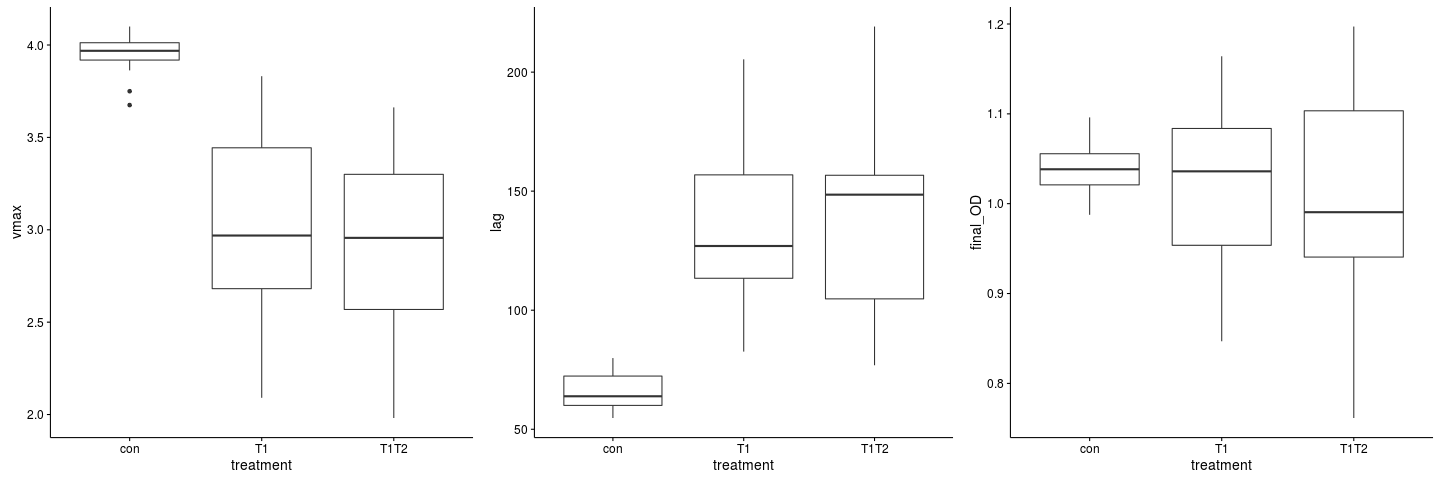
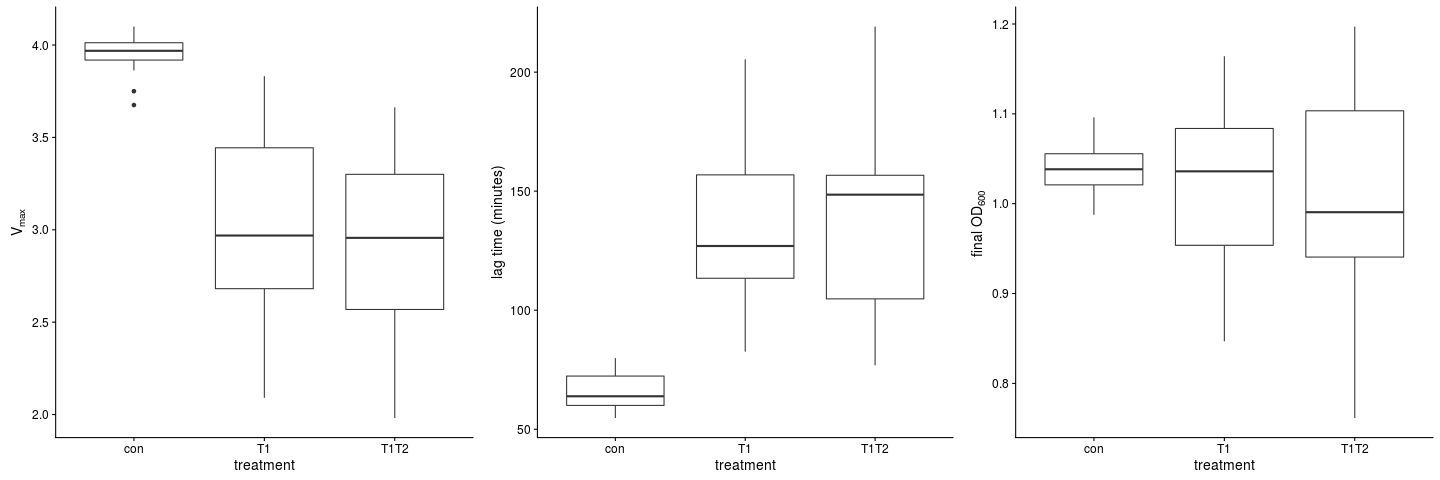
plot formatting, labels etc.

diff --git a/javi.md b/javi.md
@@ -62,15 +62,20 @@ bar <- filter(gro_mu_l, treatment == "con" & mutation == "ytr")
 bar$mutation <- gsub("ytr", "none", bar$mutation)
 # combine to make an object with variable "mutation" with values "none", "ytr", and "gra".
 groMU <- rbind(foo, bar)
+groMU$mutation <- as.factor(groMU$mutation)
+groMU$mutation <- relevel(groMU$mutation, ref = "none")
 ```
 
 ## Growth parameters by treatment
 
 ```r
 png("plots/growth_by_tre_box2.png", width = 3*480)
-mvmax <- ggplot(groMU, aes(x = treatment, y = vmax)) + geom_boxplot()
-mlag <- ggplot(groMU, aes(x = treatment, y = lag)) + geom_boxplot()
-mod <- ggplot(groMU, aes(x = treatment, y = final_OD)) + geom_boxplot()
+mvmax <- ggplot(groMU, aes(x = treatment, y = vmax)) + geom_boxplot() +
+  ylab(expression(V["max"]))
+mlag <- ggplot(groMU, aes(x = treatment, y = lag)) + geom_boxplot() +
+  ylab("lag time (minutes)")
+mod <- ggplot(groMU, aes(x = treatment, y = final_OD)) + geom_boxplot() +
+  ylab(expression(paste("final ", "OD"["600"], sep = " ")))
 plot_grid(mvmax, mlag, mod, nrow = 1)
 dev.off()
 ```
@@ -82,11 +87,14 @@ dev.off()
 ```r
 png("plots/growth_by_tremu.png", height = 480 * 0.8, width = 3*(480 * 0.8))
 mvmax <- ggplot(groMU, aes(x = treatment, y = vmax, color = mutation)) +
-  geom_point(size = 5, position = position_dodge(width = 0.5))
+  geom_point(size = 5, position = position_dodge(width = 0.5)) +
+  ylab(expression(V["max"]))
 mlag <- ggplot(groMU, aes(x = treatment, y = lag, color = mutation)) +
-  geom_point(size = 5, position=position_dodge(width = 0.5))
+  geom_point(size = 5, position=position_dodge(width = 0.5)) +
+  ylab("lag time (minutes)")
 mod <- ggplot(groMU, aes(x = treatment, y = final_OD, color = mutation)) +
-  geom_point(size = 5, position=position_dodge(width = 0.5))
+  geom_point(size = 5, position=position_dodge(width = 0.5)) +
+  ylab(expression(paste("final ", "OD"["600"], sep = " ")))
 plot_grid(mvmax, mlag, mod, nrow = 1)
 dev.off()
 ```
@@ -122,11 +130,6 @@ plot_grid(gvmax, glag, glod, nrow = 1)
 ![](https://github.com/Perugolate/arsa4/blob/master/plots/grwoth_by_mu_plus_tre.png)
 
 # Model summaries
-
-```r
-groMU$mutation <- as.factor(groMU$mutation)
-groMU$mutation <- relevel(groMU$mutation, ref = "none")
-```
 
 ## `vmax ~ mutation`
 
